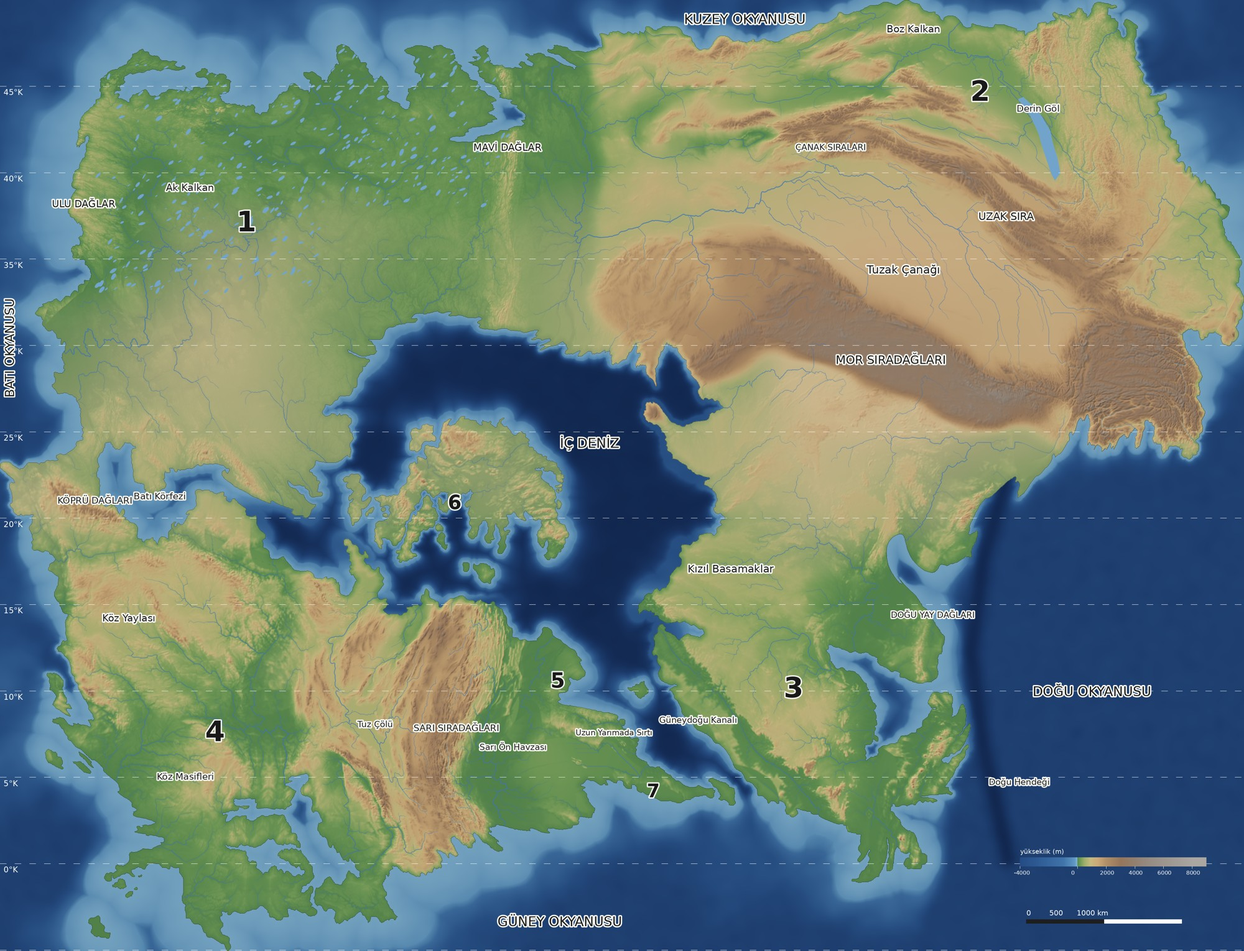
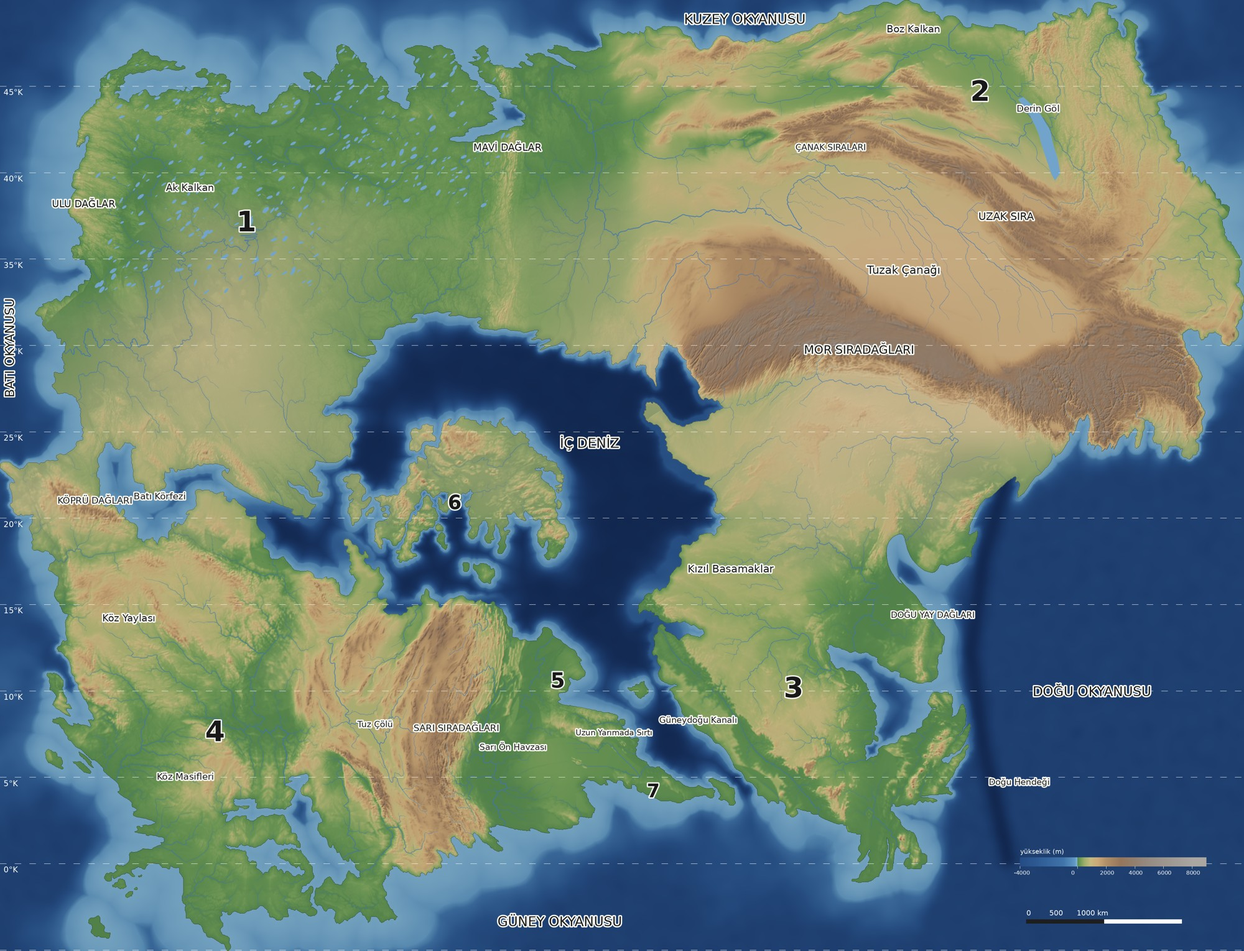
Tarih: Mor için dar sıra şeridi, çanak bölgesinin geçişi yumuşadı (deneme)
Claude-Session: https://claude.ai/code/session_01TrTgWsQ7k9npTcPJkL6aYQ

diff --git a/tarih/benzer.py b/tarih/benzer.py
@@ -46,13 +46,23 @@ KARSILIK = [
     {   # 2'nin ortası ve Mor çizgisi tek parça: Kunlun = Mor Sıradağları, Tarım = Tuzak Çanağı (sahibin bozkır platosu),
         # Tanrı Dağları = Çanak Sıraları, Cungarya ve Altay kuzeyde. Tibet dahil değil: Mor'un güneyi 3'tür (Hindistan karşılığı).
         # Yükseklik eğrisi: çanak tabanı 800 ile 1000 m, Mor doruğu 6 km dolayı.
-        "ad": "Tarım", "kutu": (66, 104, 33, 52), "parca": {"2", "3", "serit"}, "yumusak_km": 45, "ayna": True, "bukme_kat": 2.5,
+        "ad": "Tarım", "kutu": (66, 104, 33, 52), "parca": {"2", "3", "serit"}, "yumusak_km": 110, "ayna": True, "bukme_kat": 2.5,
         "yukseklik_egri": [(0, 0), (1300, 1000), (3500, 2600), (8000, 6000)],
-        "etiket": [("MOR SIRADAĞLARI", 86.0, 36.2, 19), ("Tuzak Çanağı", 83.0, 39.4, 18), ("ÇANAK SIRALARI", 84.5, 42.6, 14)],
+        "etiket": [("Tuzak Çanağı", 83.0, 39.4, 18), ("ÇANAK SIRALARI", 84.5, 42.6, 14)],
         "nokta": [(1720, 670, 77.0, 36.6), (1500, 612, 84.0, 36.0), (1300, 565, 90.0, 36.0), (1100, 595, 96.0, 35.6),
                   (1350, 230, 84.0, 42.8)],
-        "bolge": [(940, 60), (1550, 40), (1700, 150), (1780, 450), (2000, 560), (2000, 730), (1720, 690), (1500, 635), (1300, 588),
-                  (1100, 615), (1040, 640), (1000, 600), (940, 450)],
+        "bolge": [(1010, 60), (1550, 40), (1700, 150), (1780, 450), (2000, 560), (2000, 700), (1720, 640), (1500, 580), (1300, 530),
+                  (1120, 540), (1060, 520), (1020, 450)],
+    },
+    {   # Mor Sıradağları: yalnız dar sıra şeridi; karşılığı aynalanmış Himalaya'nın ön kuşağı (arkasındaki yayla dahil değil),
+        # yükseklik 6 km dolayına ölçekli. Çanak bölgesinin üstüne baskın yazılır.
+        "ad": "Mor", "kutu": (62, 100, 24, 40), "parca": {"2", "3", "serit"}, "ayna": True, "oncelik": 3.0, "yumusak_km": 45,
+        "yukseklik_egri": [(0, 0), (1000, 900), (4000, 3300), (8800, 6300)],
+        "etiket": [("MOR SIRADAĞLARI", 86.5, 28.6, 19)],
+        "nokta": [(1110, 595, 95.0, 29.6), (1300, 565, 88.1, 27.8), (1500, 614, 83.5, 28.7), (1620, 645, 79.6, 30.9),
+                  (1715, 674, 74.6, 35.2)],
+        "bolge": [(1080, 575), (1150, 525), (1300, 527), (1500, 578), (1715, 638), (1900, 668), (1900, 760), (1715, 735),
+                  (1500, 675), (1300, 628), (1150, 628), (1060, 660)],
     },
     {   # 3: Ganj ovası = Mor Ön Ovası, Dekkan = Kızıl Basamaklar, Batı Gatlar = kanal omzu
         "ad": "Hindistan", "kutu": (62, 95, 3, 32), "parca": {"3"},
